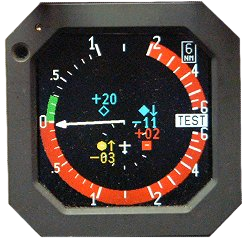
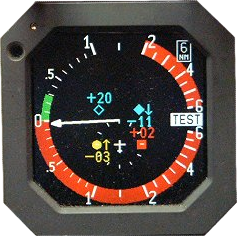
Fixed several bugs in the slow-encounter logic where we would declare clear-of-conflict too early.

diff --git a/src/xtcas.c b/src/xtcas.c
@@ -38,7 +38,6 @@
 
 #define	ALT_ROUND_MUL		FPM2MPS(100)	/* altitude rouding multiple */
 #define	EQ_ALT_THRESH		FEET2MET(100)	/* equal altitude threshold */
-#define	LEVEL_VVEL_THRESH	FPM2MPS(300)	/* m/s */
 #define	D_VVEL_MAN_THRESH	FPM2MPS(200)	/* m/s^2 */
 #define	D_VVEL_MAN_TIME		FPM2MPS(6)	/* seconds */
 #define	NUM_RA_INFOS		26
@@ -64,14 +63,16 @@
 #define	ON_GROUND_AGL_CHK_THRESH	FEET2MET(1700)
 #define	INF_VS				FPM2MPS(100000)
 #define	APCH_SPD_THRESH			KT2MPS(40)
+#define	CLEARING_CLIMB_RATE		FPM2MPS(1000)
 
 /*
  * When checking if an RA hint is still active, we boost the TA horizontal
- * and vertical volume by this factor. This helps us to avoid issuing a
+ * and vertical volume by these factors. This helps us to avoid issuing a
  * CLEAR OF CONFLICT too early, when returning to the original path could
  * trigger a second RA.
  */
-#define	HINT_INCR_FACT			1.2
+#define	HINT_H_INCR_FACT		1.1
+#define	HINT_V_INCR_FACT		1.7
 
 #define	TCAS_TEST_DUR			8	/* seconds */
 
@@ -1063,8 +1064,11 @@ assign_threat_level(tcas_acf_t *my_acf, tcas_acf_t *oacf, const SL_t *sl,
 
 	hint = avl_find(RA_hints, &srch, NULL);
 	if (cpa != NULL && (!oacf->on_ground || hint != NULL)) {
+		double dist = vect2_abs(vect2_sub(VECT3_TO_VECT2(
+		    my_acf->cur_pos_3d), VECT3_TO_VECT2(oacf->cur_pos_3d)));
 		double r_vel = ((cpa->d_t == 0) ? 1 : -1) *
 		    vect2_abs(vect2_sub(my_acf->trk_v, oacf->trk_v));
+		double r_alt = ABS(my_acf->cur_pos_3d.z - oacf->cur_pos_3d.z);
 
 		/*
 		 * Fast RA-corrective threat iff:
@@ -1081,8 +1085,8 @@ assign_threat_level(tcas_acf_t *my_acf, tcas_acf_t *oacf, const SL_t *sl,
 		    cpa->d_t <= sl->tau_RA && cpa->d_t > 0) {
 			dbg_log(threat, 1, "bogie %p RA_CORR(fast) "
 			    "cpa->d_v: %.0f <= %.0f cpa->d_h: %.0f <= %.0f "
-			    "d_t: %.1f", oacf->acf_id, cpa->d_v,
-			    sl->alim_RA, cpa->d_h, sl->dmod_RA, cpa->d_t);
+			    "d_t: %.1f", oacf->acf_id, cpa->d_v, sl->alim_RA,
+			    cpa->d_h, sl->dmod_RA, cpa->d_t);
 			oacf->threat = RA_THREAT_CORR;
 			oacf->slow_closure = B_FALSE;
 			return;
@@ -1114,19 +1118,24 @@ assign_threat_level(tcas_acf_t *my_acf, tcas_acf_t *oacf, const SL_t *sl,
 		 * If the previous filter didn't find a corrective threat, we
 		 * might still derive an RA threat level from a previous hint.
 		 * However, only do so if:
-		 * 1) The current position violates the TA-protected volume
+		 * 1) The target is reporting altitude (if they stop
+		 *    reporting, we need to drop the RA).
+		 * 2) The current position violates the TA-protected volume
 		 *    boosted by 20% in both vertical & horizontal extent
 		 *    (to avoid issuing a TA against an RA threat).
-		 * 2) The target is reporting altitude (if they stop
-		 *    reporting, we need to drop the RA).
-		 * 3) We are actually closing in.
+		 * 3) We're closing in, or if we're moving away, they're
+		 *    so close that if we started a descent or climb after
+		 *    declaring clear of conflict, we might trigger a second
+		 *    TA or RA.
 		 */
-		if (hint != NULL && r_vel < APCH_SPD_THRESH &&
-		    oacf->alt_rptg &&
-		    (cpa->d_h <= sl->dmod_TA * HINT_INCR_FACT ||
-		    d_h <= sl->dmod_TA * HINT_INCR_FACT) &&
-		    (cpa->d_v <= sl->zthr_TA * HINT_INCR_FACT ||
-		    d_v <= sl->zthr_TA * HINT_INCR_FACT)) {
+		if (hint != NULL && oacf->alt_rptg &&
+		    (cpa->d_h <= sl->dmod_TA * HINT_H_INCR_FACT ||
+		    d_h <= sl->dmod_TA * HINT_H_INCR_FACT) &&
+		    (cpa->d_v <= sl->zthr_TA * HINT_V_INCR_FACT ||
+		    d_v <= sl->zthr_TA * HINT_V_INCR_FACT) &&
+		    ((r_vel <= APCH_SPD_THRESH) ||
+		    ((sl->dmod_TA - dist) / ABS(r_vel) >
+		    (r_alt - sl->zthr_TA) / CLEARING_CLIMB_RATE))) {
 			/* Hints cannot exist on initial RAs */
 			ASSERT3U(tcas_state.adv_state, ==, ADV_STATE_RA);
 			dbg_log(threat, 1, "bogie %p RA_HINT(%d,%d) "
@@ -1134,8 +1143,8 @@ assign_threat_level(tcas_acf_t *my_acf, tcas_acf_t *oacf, const SL_t *sl,
 			    "d_h: %.0f|%.0f <= %.0f && d_v: %.0f|%.0f <= %.0f",
 			    oacf->acf_id, hint->level, hint->slow_closure,
 			    cpa->d_t, r_vel, oacf->alt_rptg, cpa->d_h, d_h,
-			    sl->dmod_TA * HINT_INCR_FACT, cpa->d_v, d_v,
-			    sl->zthr_TA * HINT_INCR_FACT);
+			    sl->dmod_TA * HINT_H_INCR_FACT, cpa->d_v, d_v,
+			    sl->zthr_TA * HINT_V_INCR_FACT);
 			ASSERT3U(hint->level, >=, RA_THREAT_PREV);
 			oacf->threat = hint->level;
 			oacf->slow_closure = hint->slow_closure;

diff --git a/src/vsi.c b/src/vsi.c
@@ -651,7 +651,7 @@ draw_contacts(vsi_t *vsi, vsi_tex_t *tex)
 			break;
 		}
 
-		if (ctc->vs >= FPM2MPS(500)) {
+		if (ctc->vs >= LEVEL_VVEL_THRESH) {
 			cairo_move_to(tex->cr, X(p.x + CTC_SZ * 0.8),
 			    X(p.y - CTC_SZ / 2));
 			cairo_rel_line_to(tex->cr, 0, X(CTC_SZ));
@@ -662,7 +662,7 @@ draw_contacts(vsi_t *vsi, vsi_tex_t *tex)
 			cairo_rel_line_to(tex->cr, X(CTC_SZ * 0.2),
 			    X(-CTC_SZ * 0.3));
 			cairo_stroke(tex->cr);
-		} else if (ctc->vs <= FPM2MPS(-500)) {
+		} else if (ctc->vs <= -LEVEL_VVEL_THRESH) {
 			cairo_move_to(tex->cr, X(p.x + CTC_SZ * 0.8),
 			    X(p.y - CTC_SZ / 2));
 			cairo_rel_line_to(tex->cr, 0, X(CTC_SZ));
@@ -1013,8 +1013,10 @@ composite_vsi(vsi_t *vsi)
 
 	mutex_enter(&vsi->tex_lock);
 
-	if (vsi->cur_tex == -1)
-		goto done;
+	if (vsi->cur_tex == -1) {
+		mutex_exit(&vsi->tex_lock);
+		return;
+	}
 	ASSERT3S(vsi->cur_tex, >=, 0);
 	ASSERT3S(vsi->cur_tex, <, 2);
 
@@ -1031,6 +1033,8 @@ composite_vsi(vsi_t *vsi)
 		tex->chg = B_FALSE;
 	}
 
+	mutex_exit(&vsi->tex_lock);
+
 	glBegin(GL_QUADS);
 	glTexCoord2f(0, 1);
 	glVertex2f(vsi->x, vsi->y);
@@ -1041,9 +1045,6 @@ composite_vsi(vsi_t *vsi)
 	glTexCoord2f(1, 1);
 	glVertex2f(vsi->x + vsi->sz, vsi->y);
 	glEnd();
-
-done:
-	mutex_exit(&vsi->tex_lock);
 }
 
 static void

diff --git a/src/ff_a320_intf.c b/src/ff_a320_intf.c
@@ -45,7 +45,6 @@
 #include "xtcas.h"
 
 #define	MAX_CONTACTS		100
-#define	LEVEL_VVEL_THRESH	FPM2MPS(300)
 
 typedef enum {
 	UPDATE_DELETE,

diff --git a/src/xtcas.h b/src/xtcas.h
@@ -26,6 +26,8 @@
 extern "C" {
 #endif
 
+#define	LEVEL_VVEL_THRESH	FPM2MPS(500)
+
 /*
  * Controls the master TCAS operation mode:
  *
